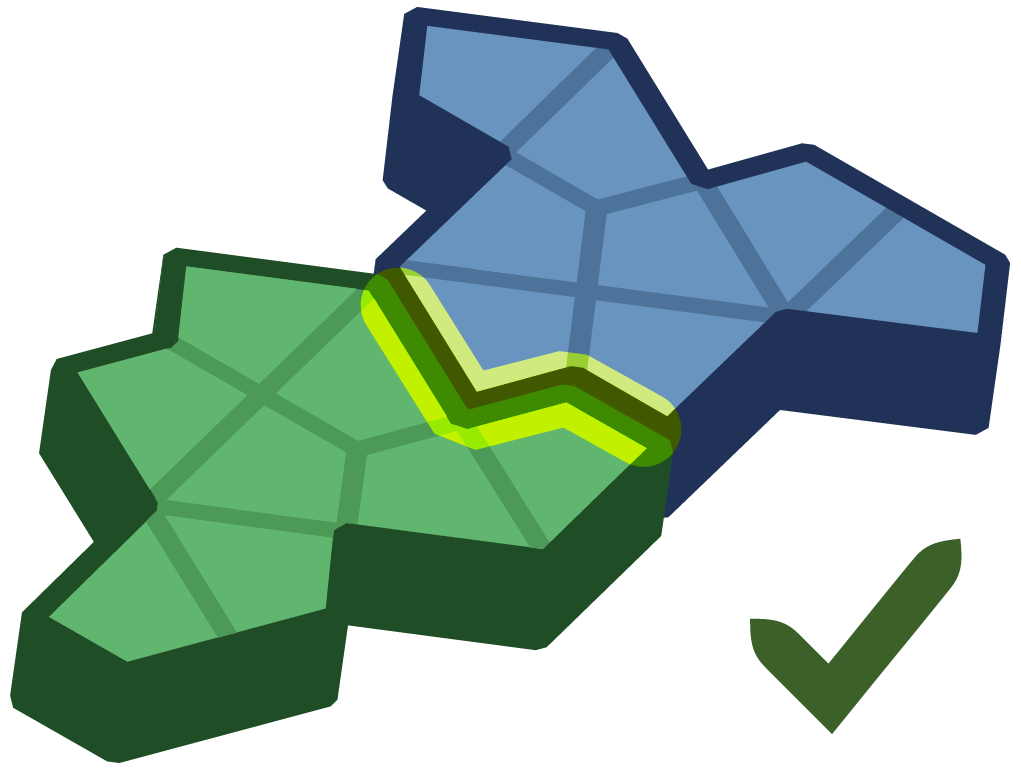
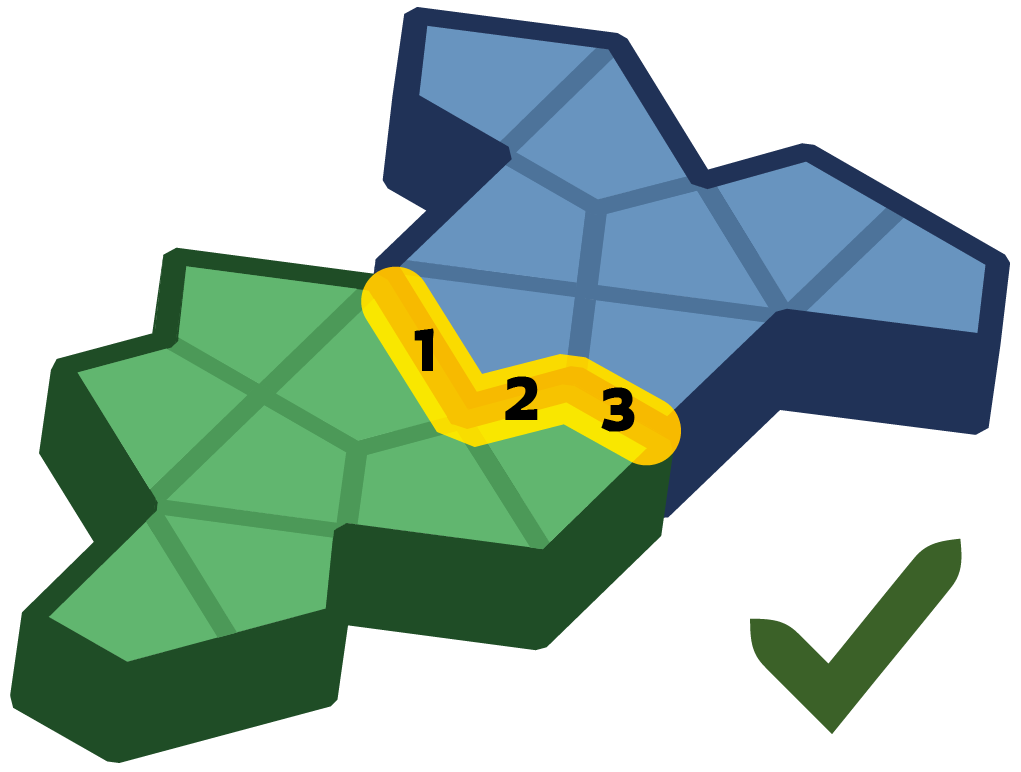
règles update

Changed region(s): [[0.334, 0.342, 0.668, 0.6218]]

diff --git a/index.html b/index.html
@@ -166,15 +166,23 @@
                 <h2>Règles</h2>
 
                 <h3>Comment placer les tuiles</h3>
+
+                <div class="col-flex-r space-top">
+                    <img style="width: 85%;" src="src/medias/réversible.png" alt="">
+                    <p><ba>Les tuiles sont réversibles</ba>, elles peuvent être placées à l’endroit comme à l’envers.</p>
+                </div>
+
                 <p>Il existe deux possibilités de placement : <ba>au même niveau</ba> et <ba>en étage</ba>.</p>
                 <div class="list-str">
                     <div>
                         <span>Au même niveau</span>
-                        <p>Veillez à ce qu’au moins deux (2) arêtes des tuiles collées correspondent entre elles.</p>
-                        <div class="grid-3">
+                        <p>Veillez à ce qu’au moins deux (2) arêtes des diamants des tuiles collées correspondent entre elles.</p>
+                        <div class="grid-2 align-center">
                             <img src="src/medias/placement-bien1.png" alt="">
                             <img src="src/medias/placement-bien2.png" alt="">
+                            <img src="src/medias/placement-bien3.png" alt="">
                             <img src="src/medias/placement-nul1.png" alt="">
+                            <img style="grid-column: 1 / 3;" src="src/medias/placement-nul2.png" alt="">
                         </div>
                     </div>
                     <div>
@@ -186,19 +194,25 @@
                             </div>
                             <div>
                                 <span>2</span>
-                                <p>Il faut que la tuile placée recouvre au moins deux (2) tuiles sous elle.</p>
+                                <p>Il faut que la tuile placée recouvre au moins deux (2) tuiles de l'étage directement en dessous elle.</p>
+                            </div>
+                            <div>
+                                <span>3</span>
+                                <p>Faites attention à ce que la tuile soit stable quand vous la placez.</p>
                             </div>
                         </div>
-                        <div class="grid-2">
+                        <div class="grid-2 align-center">
                             <img src="src/medias/placement_hauteur-bien1.png" alt="">
                             <img src="src/medias/placement_hauteur-nul1.png" alt="">
                         </div>
+
                         <note><span>Astuce :</span><span>Prenez un des diamants de votre tuile et faites la correspondre en tournant votre pièce !</span></note>
+
+                        <div class="grid-2 align-center">
+                            <img src="src/medias/placement_hauteur-nul2.png" alt="">
+                            <img src="src/medias/placement_hauteur-nul3.png" alt="">
+                        </div>
                     </div>
-                </div>
-                <div class="col-flex-r">
-                    <img style="width: 85%;" src="src/medias/réversible.png" alt="">
-                    <p>Les tuiles sont réversibles, elles peuvent être placées à l’endroit comme à l’envers.</p>
                 </div>
 
                 <h3>Interdits</h3>
@@ -234,7 +248,13 @@
                 <p><ba>L’ordre des joueurs change chaque tour pour équilibrer le jeu</ba> et permettre une plus grande diversité de coups.</p>
                 <p>Le premier joueur de chaque tour change pour le suivant dans l’ordre chronologique.</p>
 
-                <note class="t-center"><span>Utilisez le pion Mounstein pour vous aider</span>Au début de la partie, le premier joueur prend le pion Mounstein. Quand c’est de nouveau à lui de jouer : il passe son tour et donne le pion au joueur suivant. Ainsi de suite.</note>
+                <note class="t-center">
+                    <span>Utilisez le pion Mounstein pour vous aider</span>
+                    <div class="col-flex-r align-center">
+                        <img style="width: 15%; flex-shrink: 0;" src="src/medias/pion_mounstein.png" alt="">
+                        <span>Au début de la partie, le premier joueur prend le pion Mounstein. Quand c’est de nouveau à lui de jouer : il passe son tour et donne le pion au joueur suivant. Ainsi de suite.</span>
+                    </div>
+                </note>
 
                 <p><br></p>
 
@@ -259,7 +279,7 @@
                 </top>
                 <h2>Contexte</h2>
                 <p>Mounstein est un jeu de société réalisé durant "La Grosse Quinzaine", une collection de 8 ateliers organisé au lycée Saint Géraud entre le 29 janvier et le 2 février 2024. Le thème de cette année était "la montagne".</p>
-                <note>Mounstein a vu le jour dans l'atelier "Jeu en montagne" où la thématique était de réaliser un jeu de société en volume.</note>
+                <note><span>Mounstein a vu le jour dans l'atelier "Jeu en montagne" où la thématique était de réaliser un jeu de société en volume.</span></note>
 
                 <h3 style="text-align: left;">Les créateurs</h3>
                 <p>A. Lucie<br>A. Gwendal<br>E. Nathan<br>G. Yolan<br>G. Alexandre<br>L. Auxence</p>

diff --git a/styles.css b/styles.css
@@ -117,21 +117,20 @@ p.italic, span.italic, p i {
 note {
     display: block;
     color: var(--accent3);
-    opacity: 0.65;
     font-size: 0.9em;
     font-style: italic;
     line-height: 125%;
     padding: 0.75em 0 0.25em;
 }
-note:not(.minimal) > span:first-child {
+note span {
+    opacity: 0.65;
+}
+note:not(.minimal) > span:first-child:not(:last-child) {
     font-weight: 400;
     background-color: var(--bg4);
     padding: 0.15em 0.6em;
     margin-right: 0.35em;
     border-radius: 999em;
-}
-note.t-center {
-    margin-top: 1em;
 }
 note.t-center > span:first-child {
     display: block;
@@ -146,6 +145,14 @@ img {
     height: auto;
     pointer-events: none;
     user-select: none;
+}
+
+.space-top,
+note.t-center {
+    margin-top: 1.25em;
+}
+.col-flex-r.space-top note.t-center {
+    margin-top: 0 !important;
 }
 
 .rel {
@@ -164,6 +171,11 @@ img {
 }
 .col-flex-r.equal > * {
     flex: 1;
+}
+
+*[class*="grid-"].align-center,
+.col-flex-r.align-center {
+    align-items: center;
 }
 
 *[class*="grid-"] {
